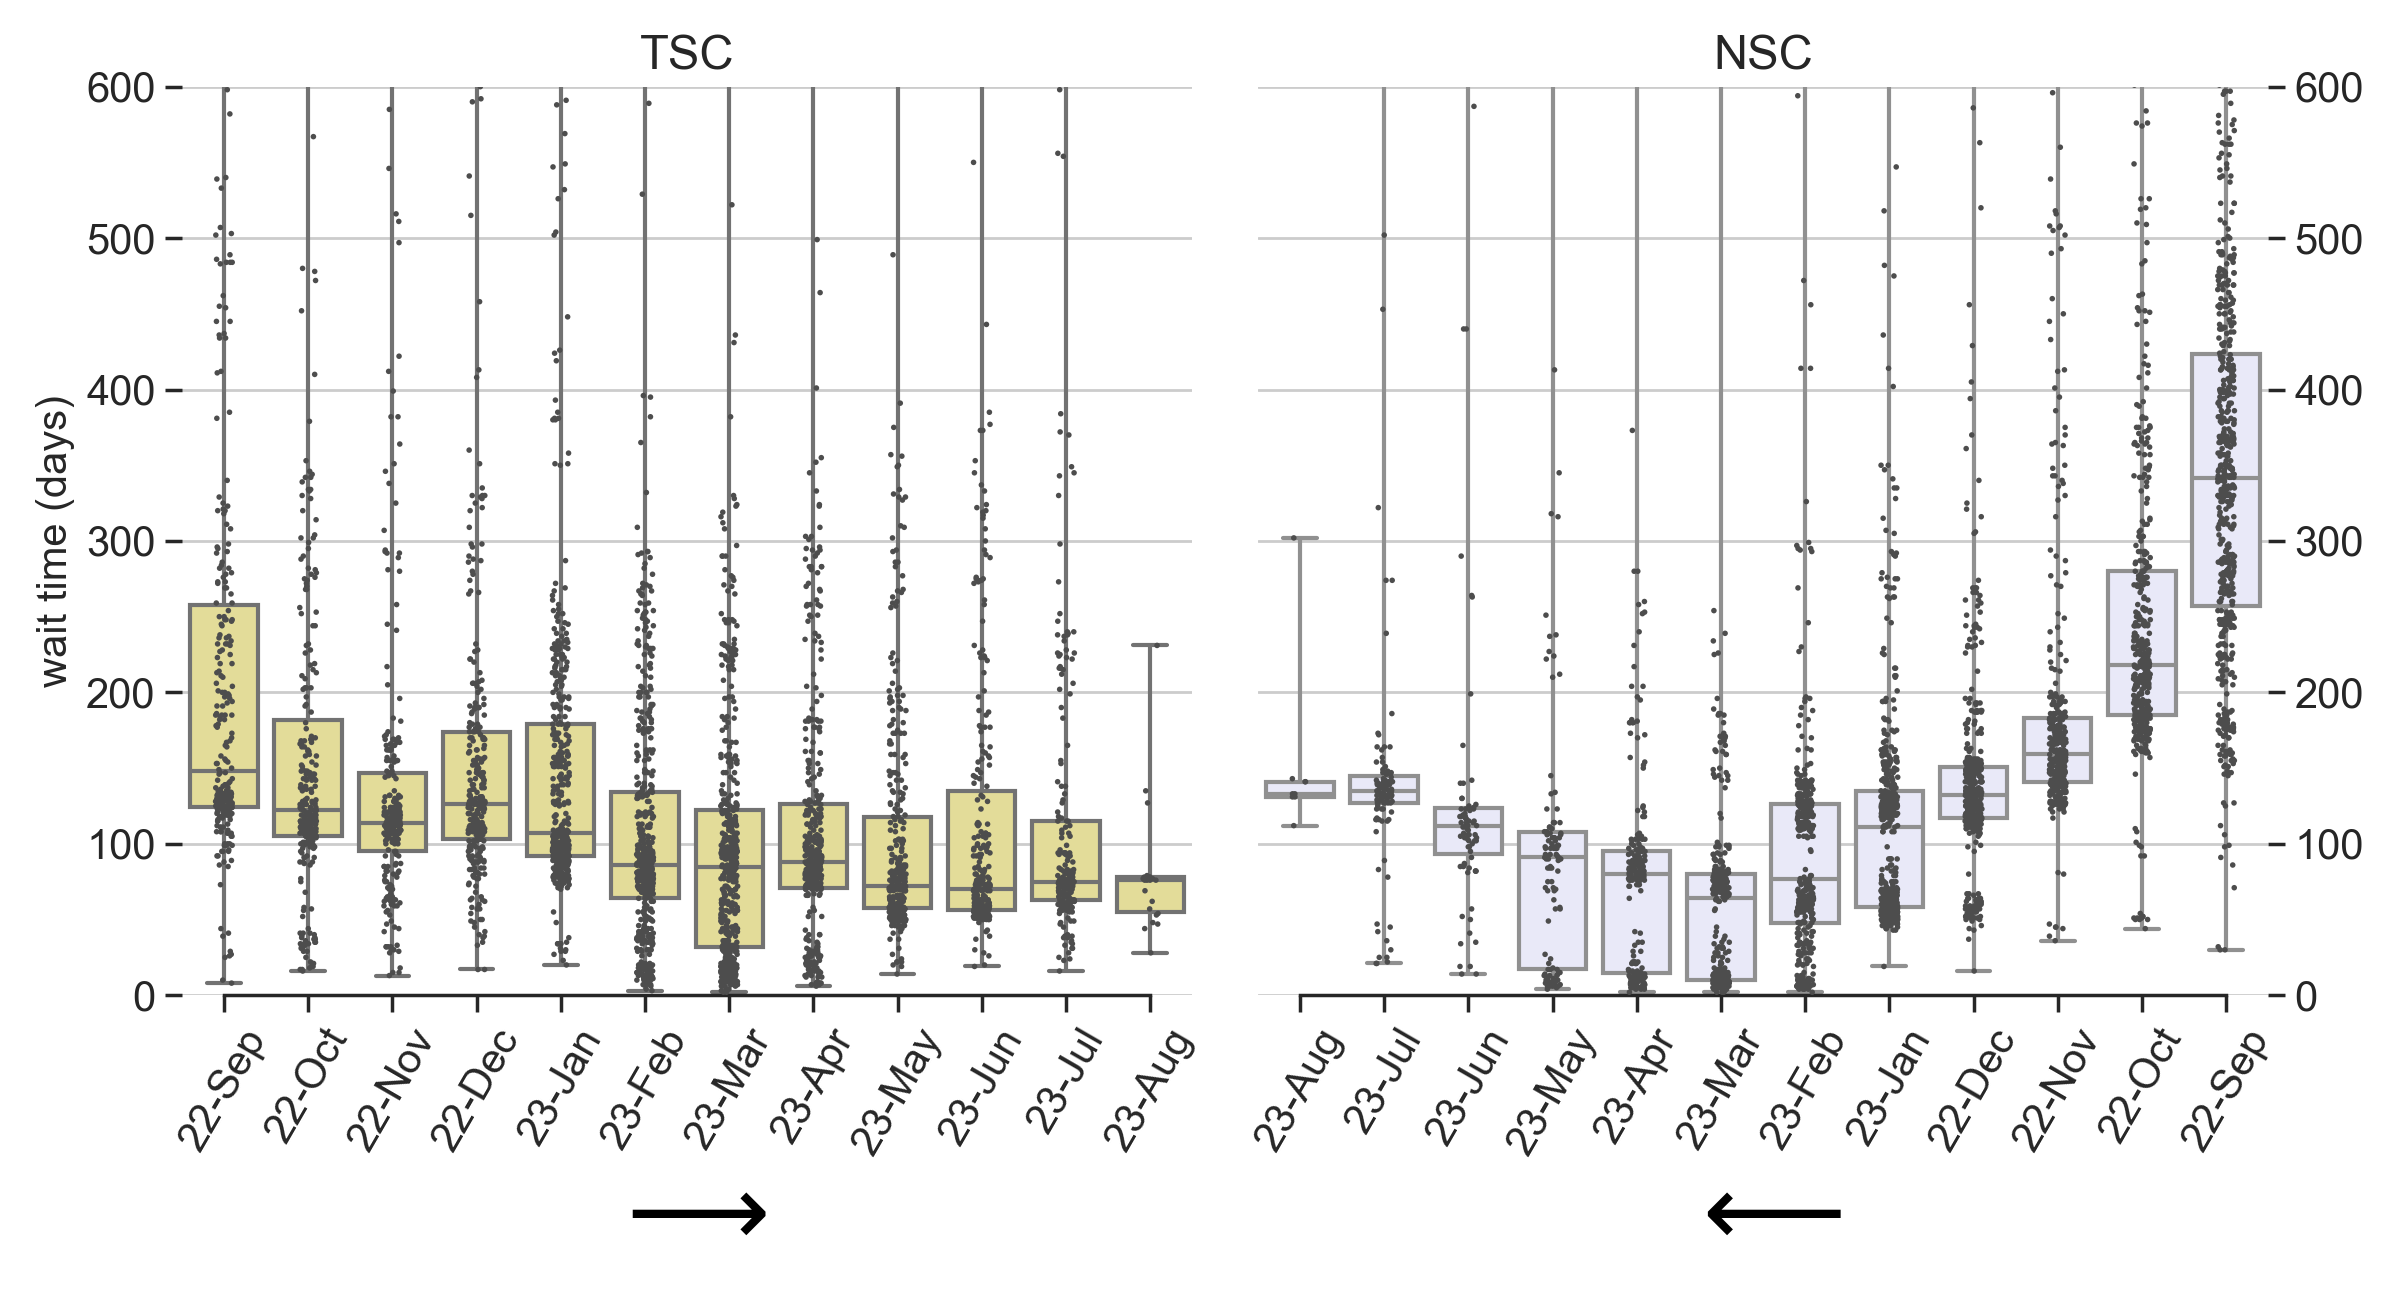
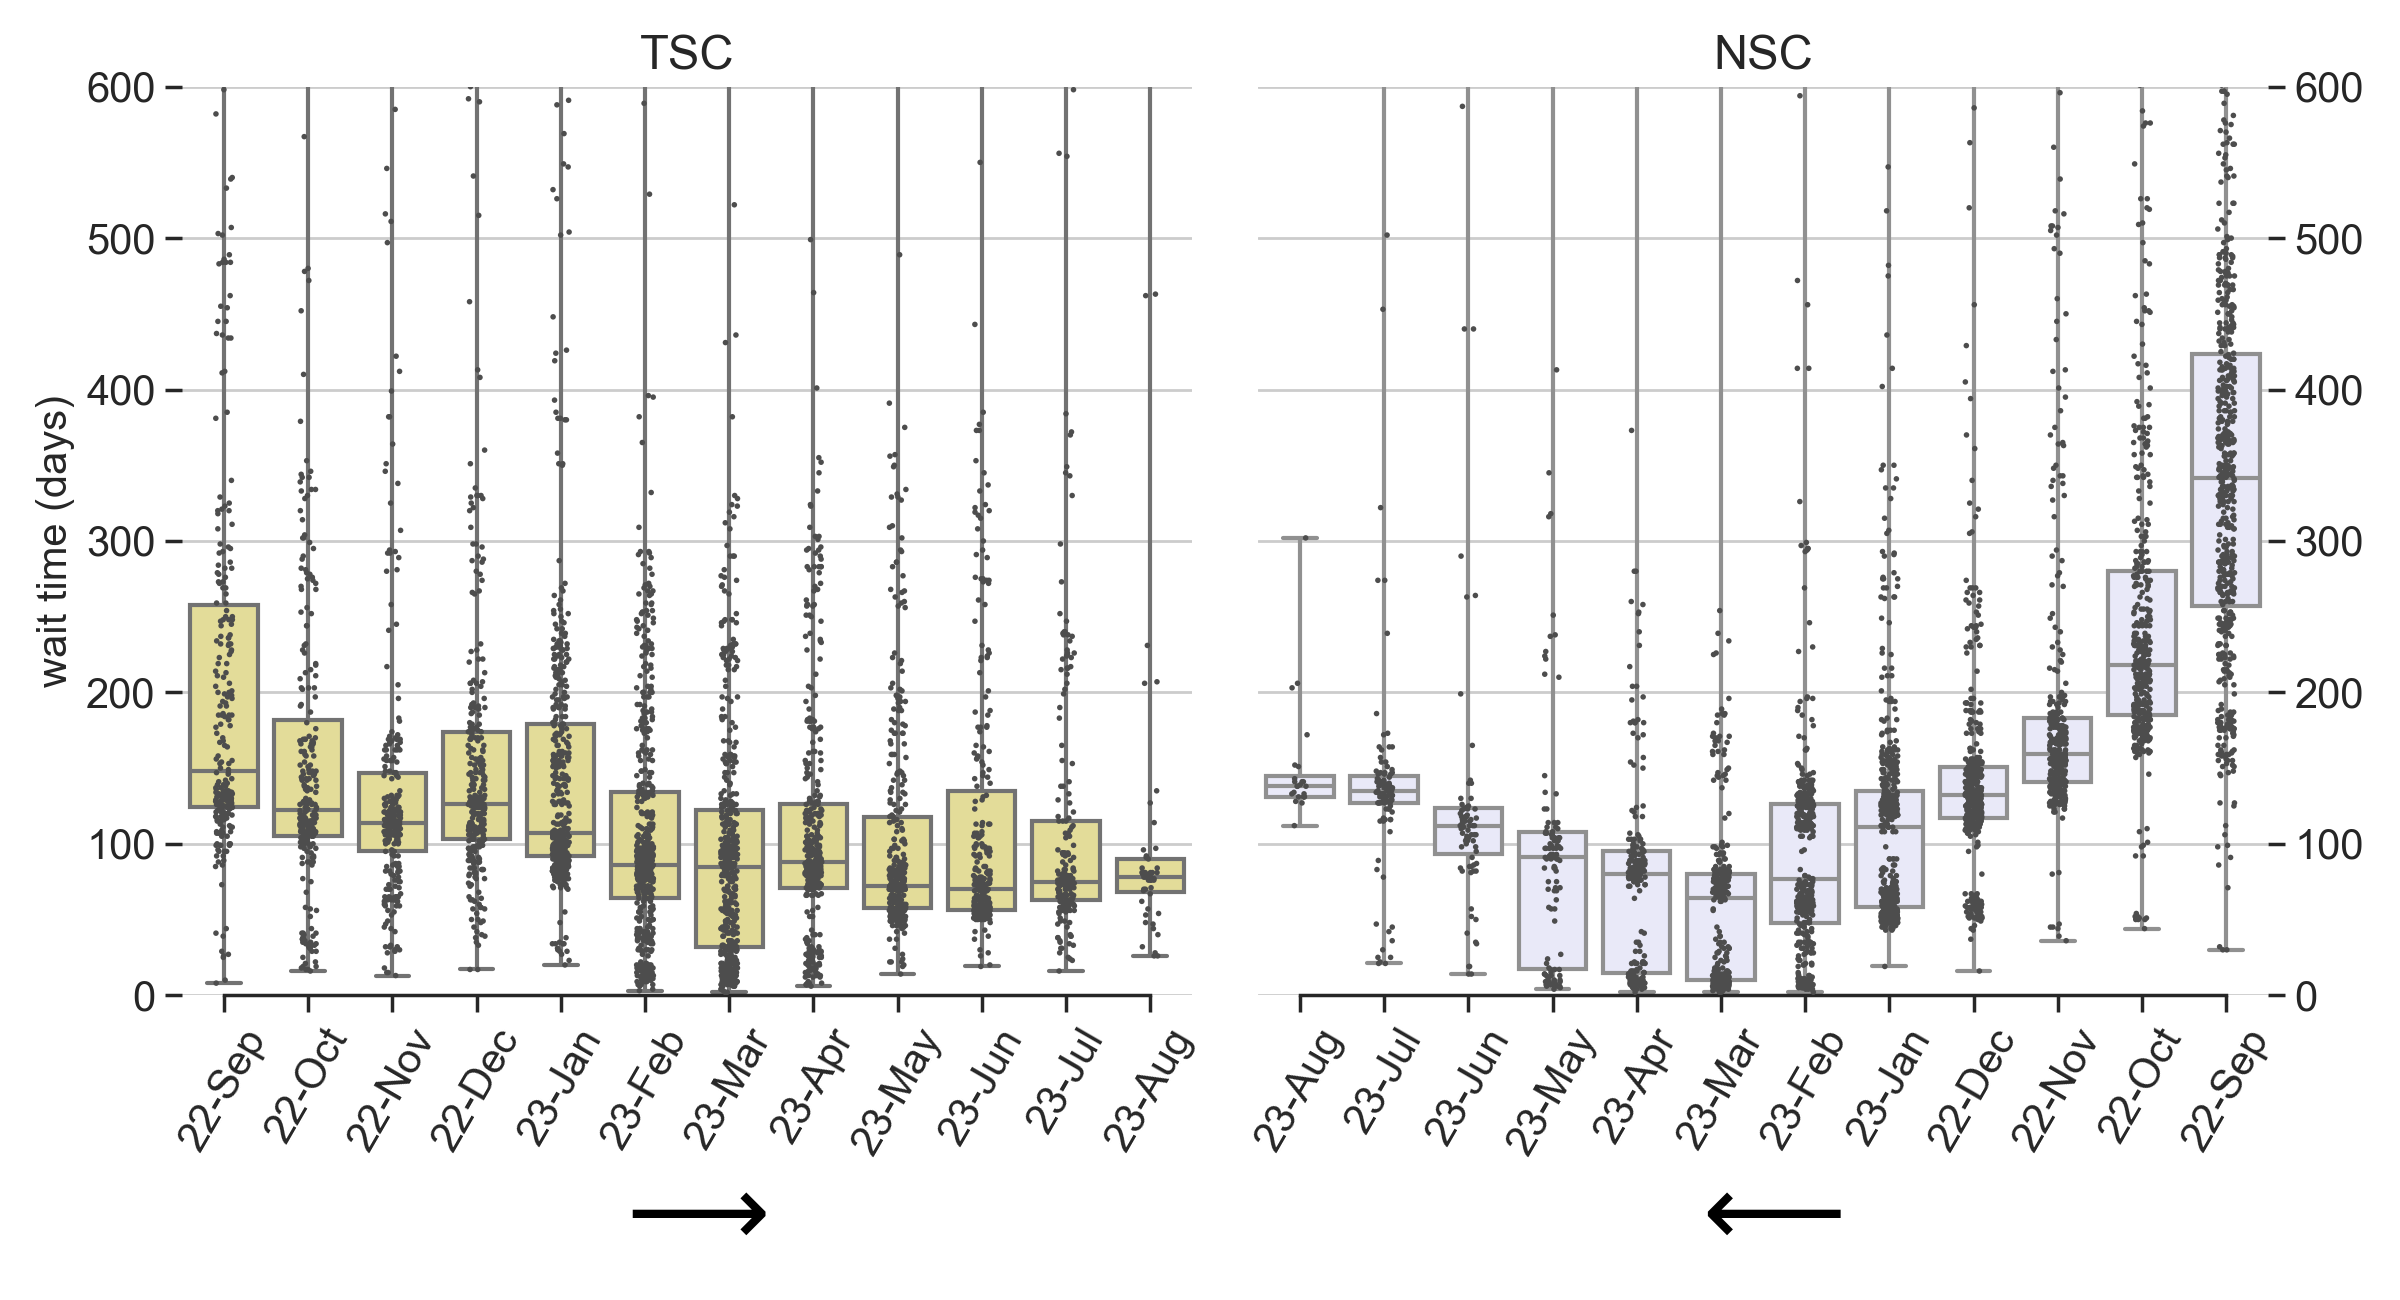
Aug-31 update

diff --git a/README.md b/README.md
@@ -1,4 +1,4 @@
-## National Interest Waiver Wait Time, updated Aug-22-2023 
+## National Interest Waiver Wait Time, updated Aug-31-2023 
 * If you wish to join our Telegram action group to discuss the delays of processing at TSC, please [fill out this form](https://docs.google.com/forms/d/194Vp6uimucdul6iqtNFB1HSKz_z75RKsQ-cp3z7f8YY/viewform?edit_requested=true).
  
 USCIS Employment-based-2 NIW I-140 wait time before approval (data source: [Victoria Chen](https://www.wegreened.com/eb1_niw_approvals)). 
